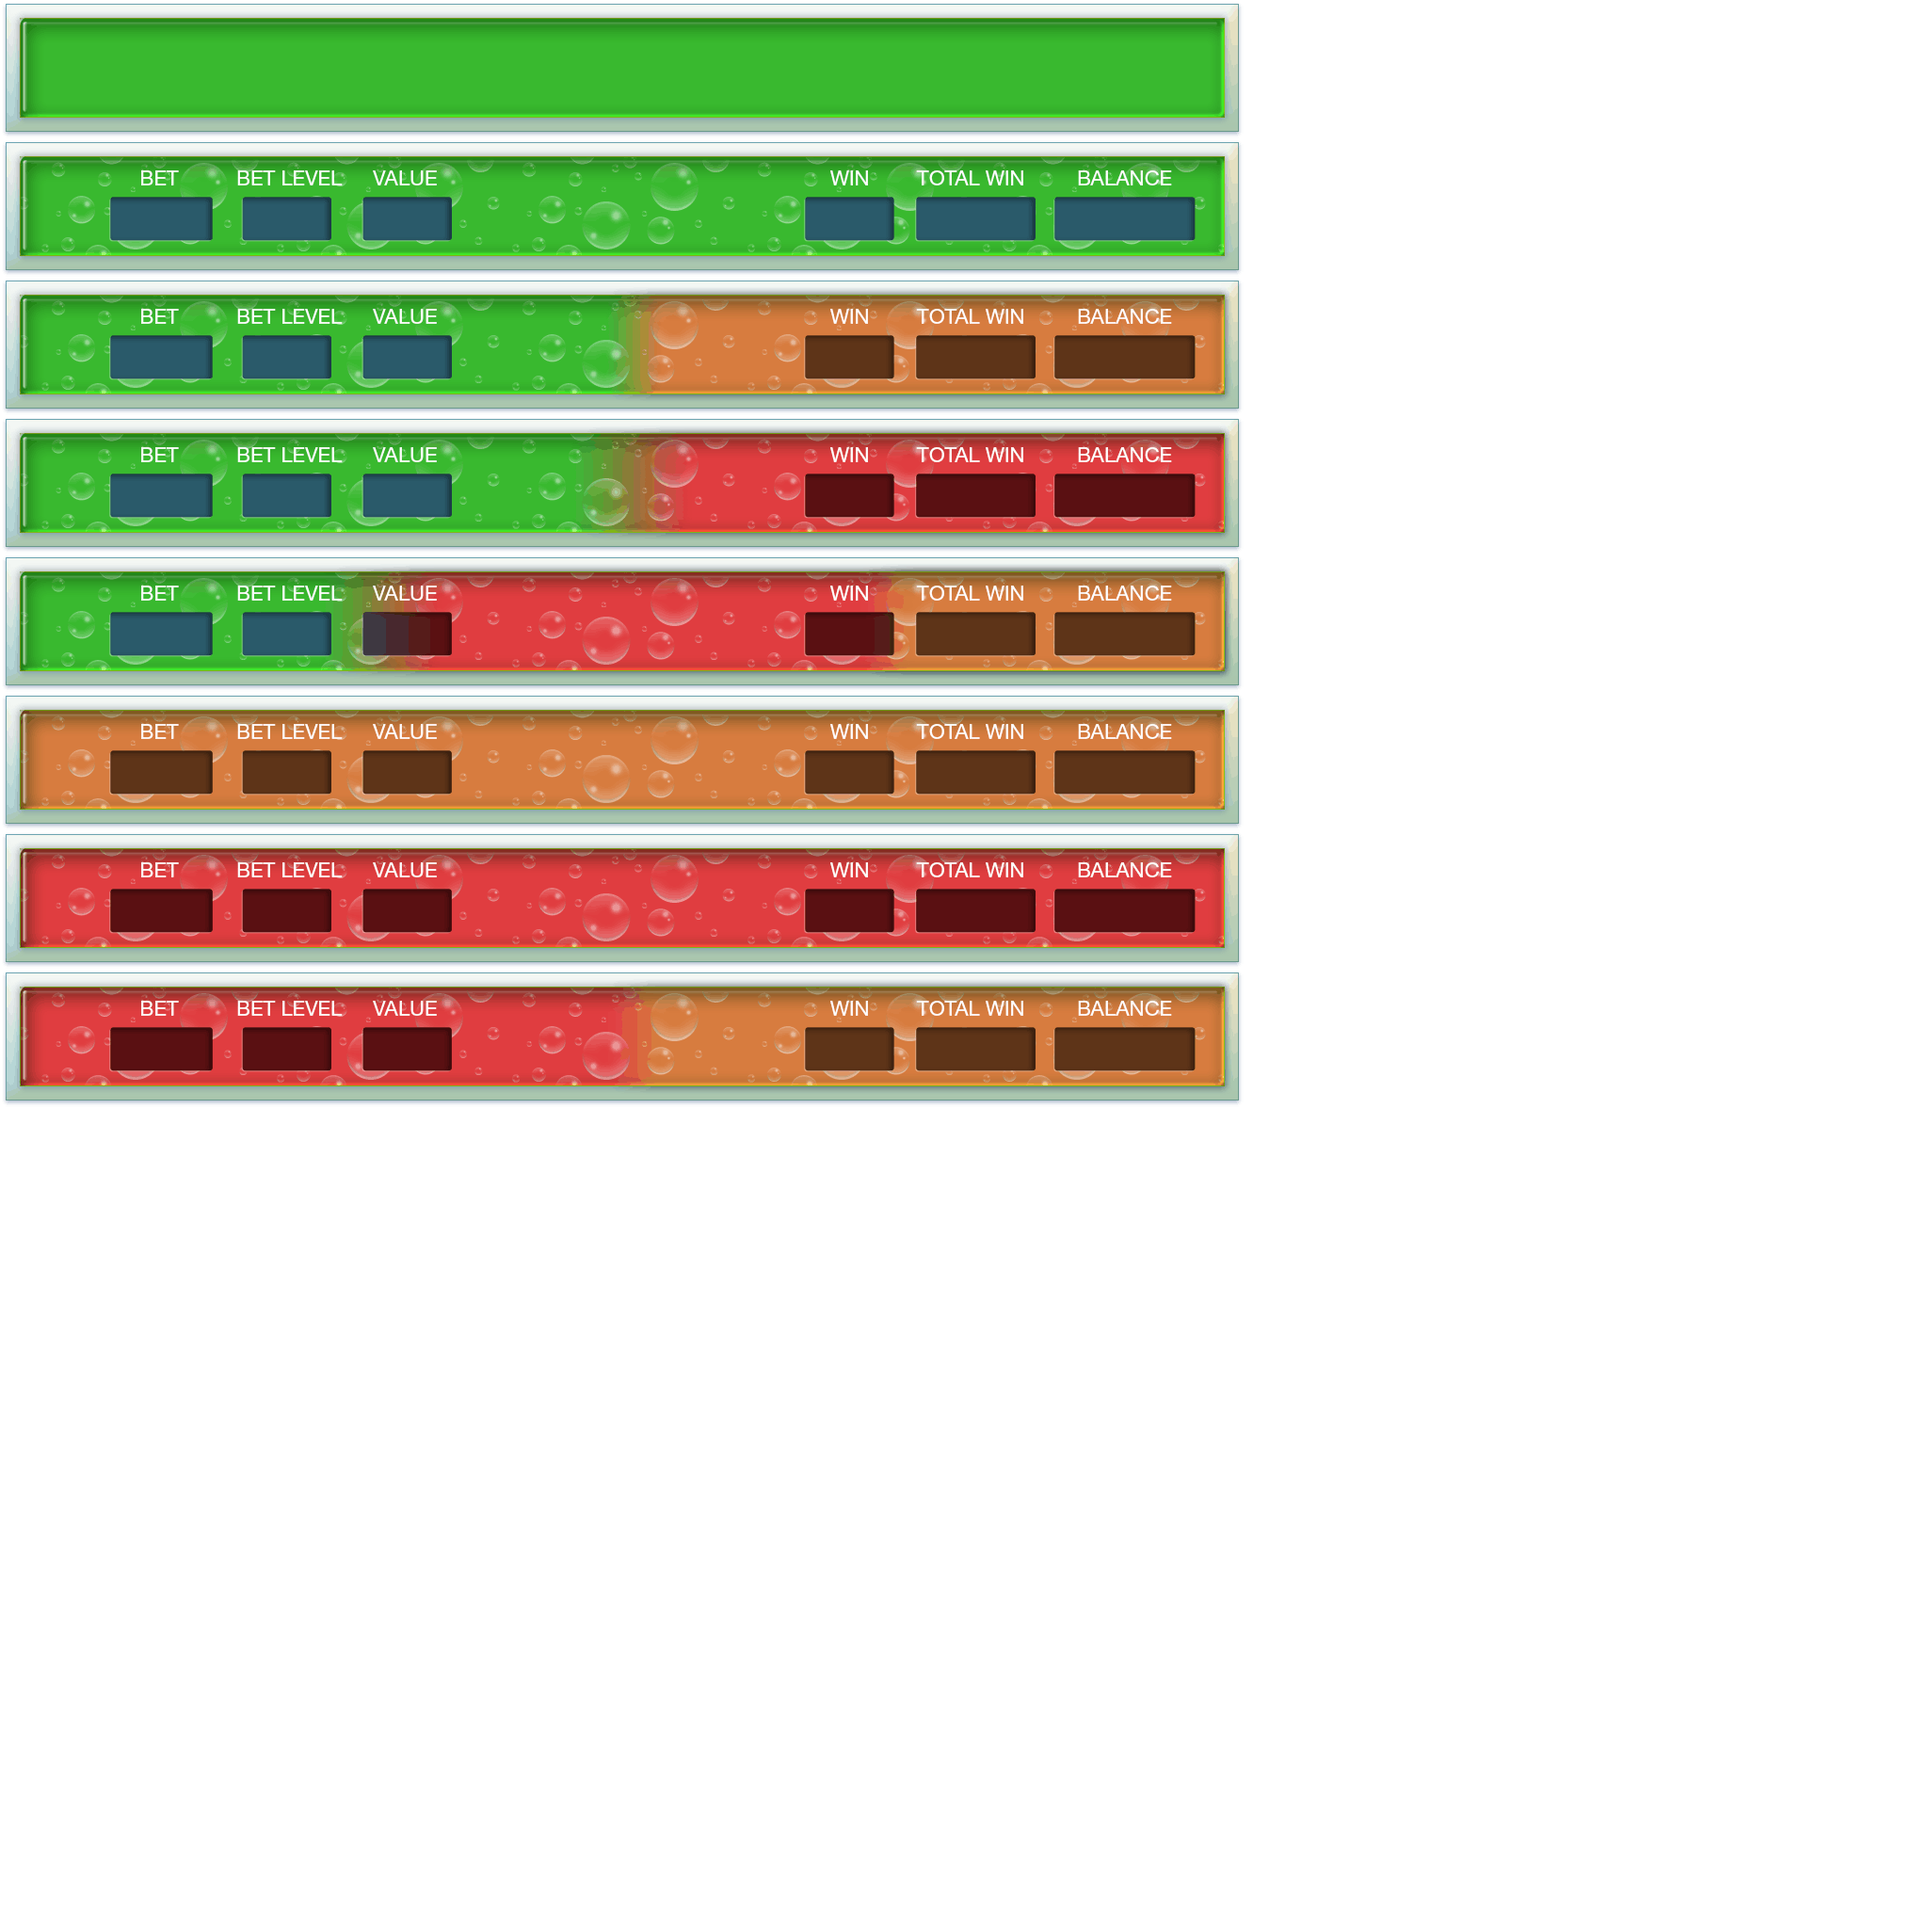
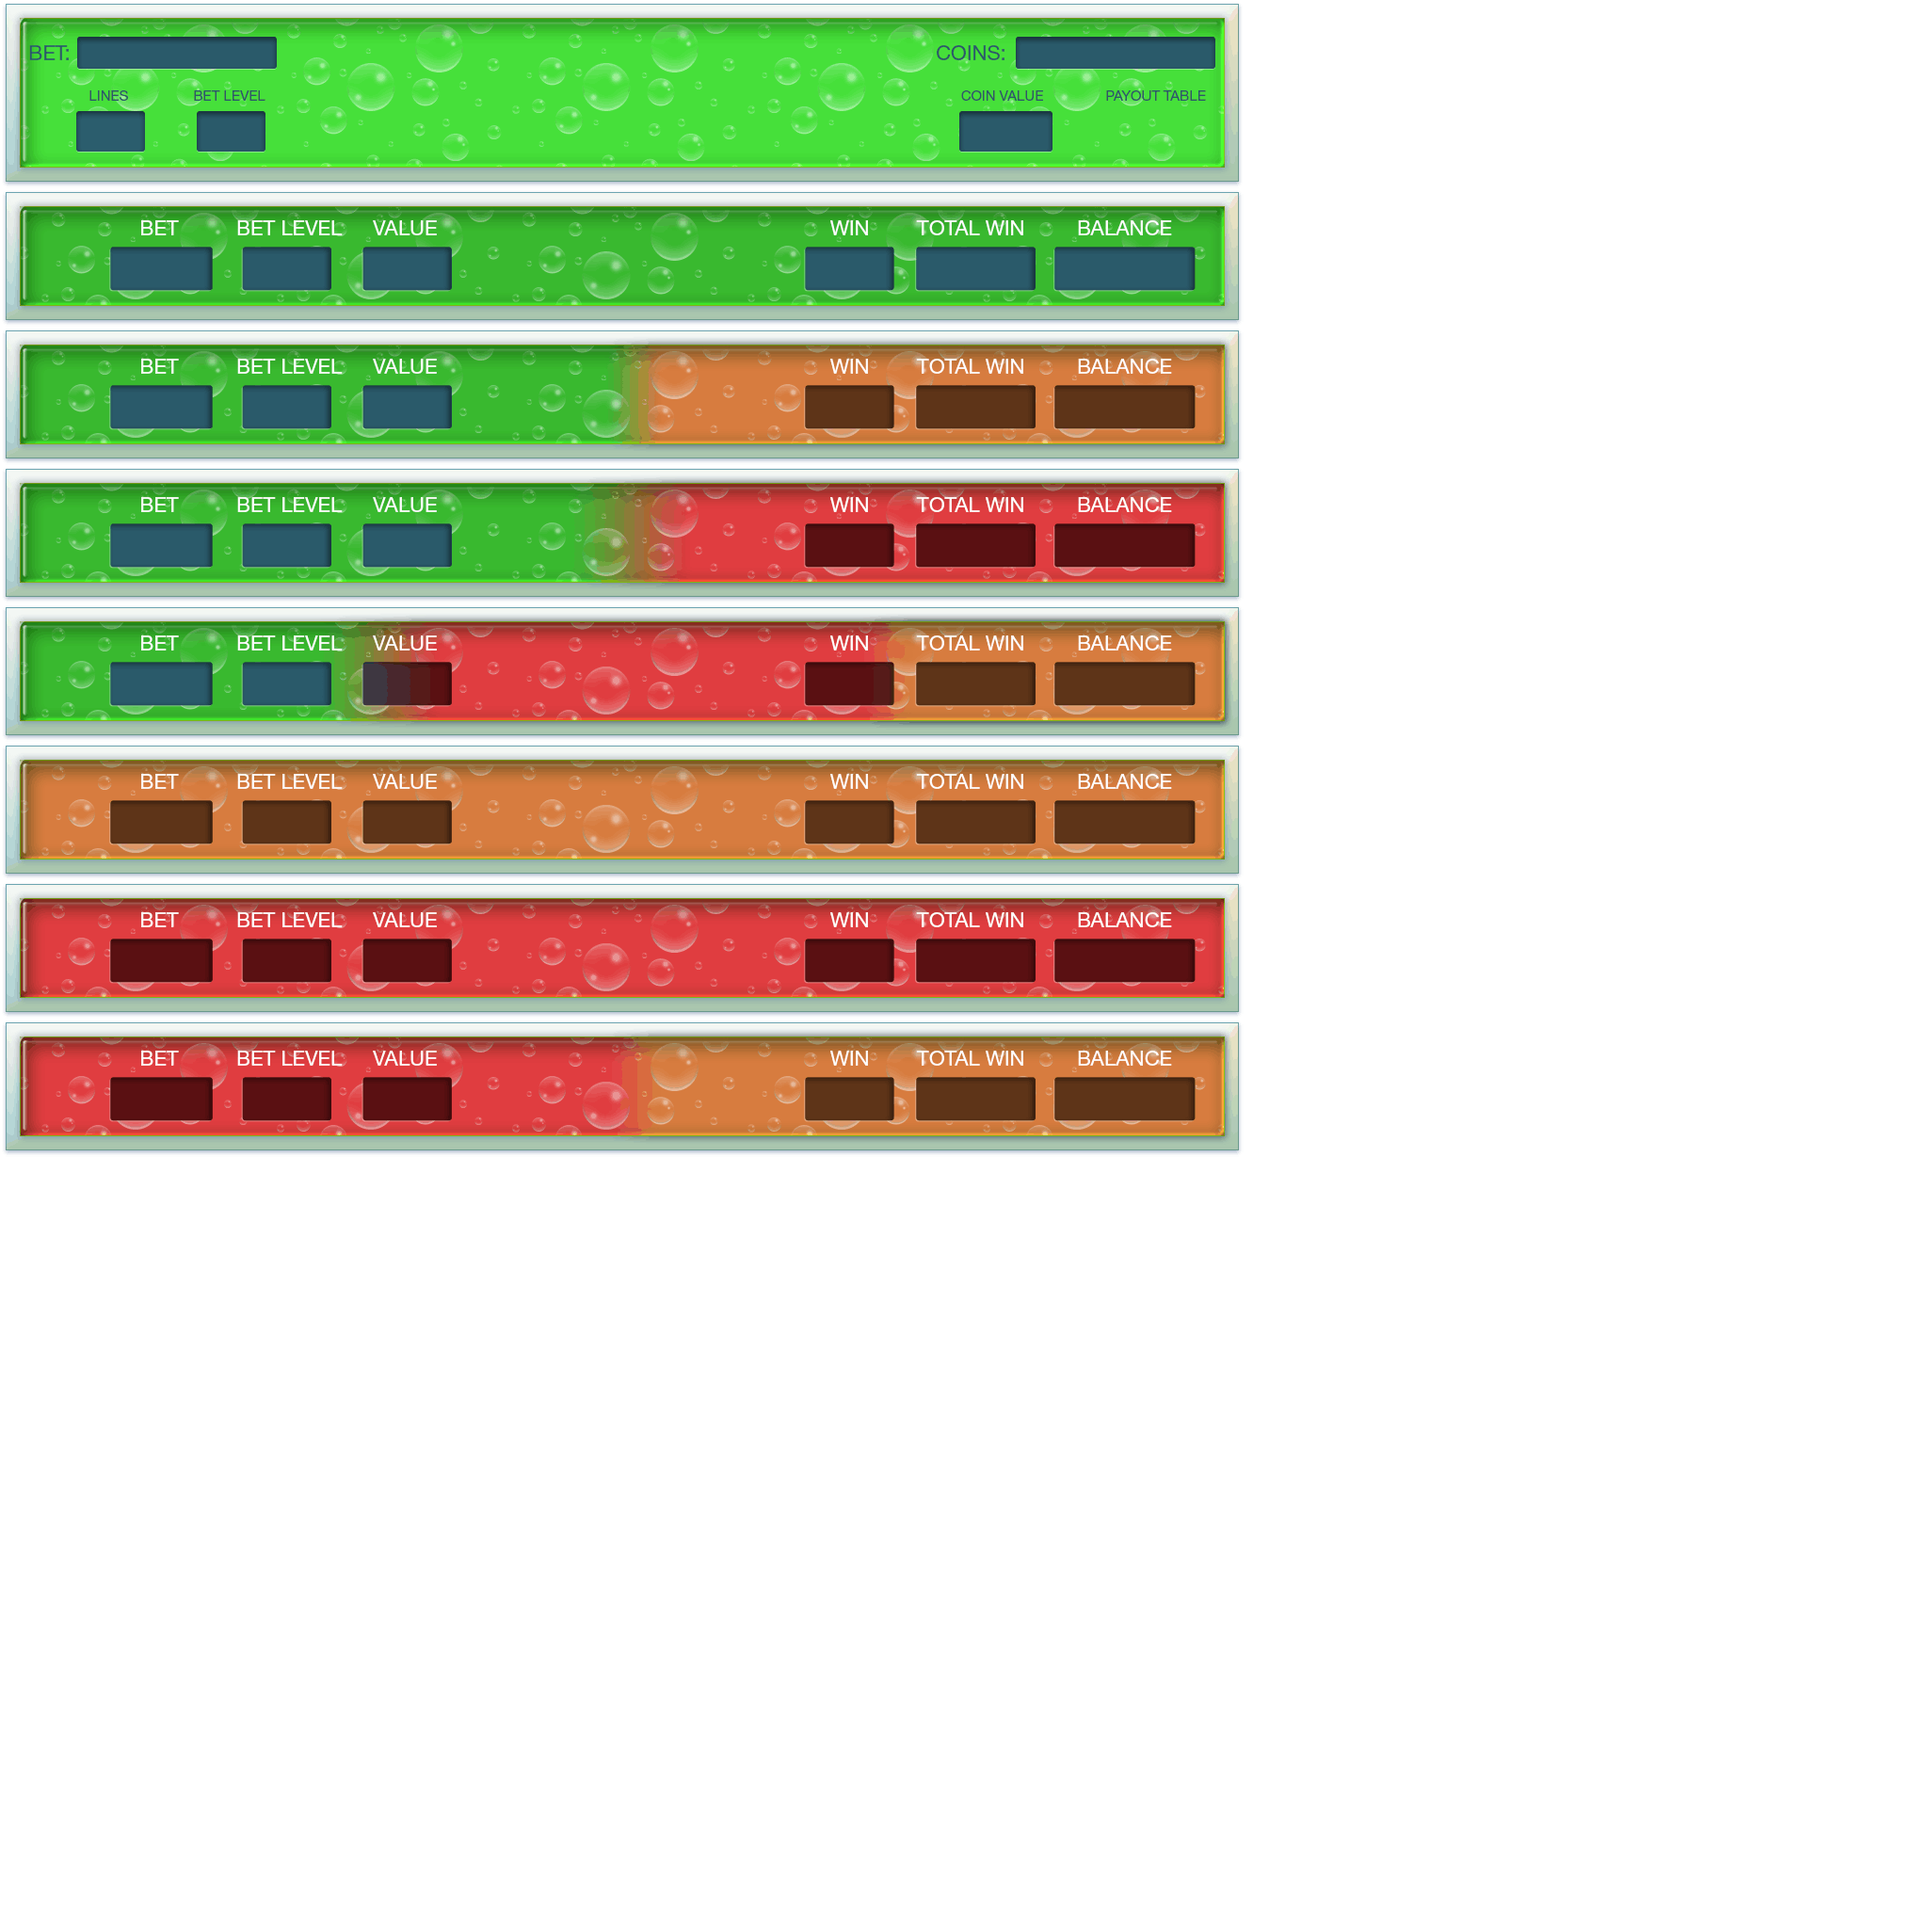
Panel fix to old version

diff --git a/markup/modules/Panel/PanelView.js b/markup/modules/Panel/PanelView.js
@@ -20,19 +20,24 @@ export let view = (() => {
             container.top = y;
             let panelBG = game.add.sprite(1, deltaY, 'panelBG', framePanelBG, container);
 
-            if (!model.state('fs')) {
-                let panel = game.add.sprite(deltaX, deltaY, frameName, null, container);
-                let convert = game.add.sprite(80, 150, 'switcher', 'switch1.png', container);
-                convert.anchor.set(0.5);
-                convert.inputEnabled = true;
-                convert.events.onInputDown.add(() => {
-                    balanceController.changeCoinsToCash();
-                });
+            // if (!model.state('fs')) {
+            //     let panel = game.add.sprite(deltaX, deltaY, frameName, null, container);
+            //     let convert = game.add.sprite(80, 150, 'switcher', 'switch1.png', container);
+            //     convert.anchor.set(0.5);
+            //     convert.inputEnabled = true;
+            //     convert.events.onInputDown.add(() => {
+            //         balanceController.changeCoinsToCash();
+            //     });
+            //
+            //     model.el('convertSign', convert);
+            // } else {
+            //     container.alpha = 0;
+            //     container.y = -500;
+            // }
 
-                model.el('convertSign', convert);
-            } else {
+            if (model.state('fs')) {
                 container.alpha = 0;
-                container.y = -500;
+                 container.y = -500;
             }
 
             container.pivot.set(panelBG.width / 2, 0);
@@ -95,8 +100,8 @@ export let view = (() => {
 
         AutoContainer: function({
             game = model.el('game'),
-            x = model.group('panel').width / 2 - 20,
-            y = 143
+            x = model.group('panel').width / 2,
+            y = 168
         }) {
             let autoDesktopContainer = game.add.group();
             autoDesktopContainer.x = x;
@@ -110,8 +115,8 @@ export let view = (() => {
 
         AnimatedSpinButton: function({
             game = model.el('game'),
-            x = model.group('panel').width / 2 - 20,
-            y = 143,
+            x = model.group('panel').width / 2,
+            y = 168,
             container = model.group('panel')
         }) {
             let animatedSpinButton = game.add.sprite(x, y, 'deskButtonsAnim', null, container);
@@ -126,8 +131,8 @@ export let view = (() => {
 
         SpinButton: function({
             game = model.el('game'),
-            x = model.group('panel').width / 2 - 20,
-            y = 143,
+            x = model.group('panel').width / 2,
+            y = 168,
             container = model.group('panel')
         }) {
             let spinButtonDesk = game.add.button(x, y, 'deskButtons', null, null, 'spinOn.png', 'spin.png', 'spinOn.png', null, container);
@@ -140,8 +145,8 @@ export let view = (() => {
         AutoButton: function({
             game = model.el('game'),
             container = model.group('panel'),
-            x = model.el('spinButtonDesk').x + 120,
-            y = 141
+            x = model.el('spinButtonDesk').x - 136,
+            y = 168
         }) {
             let autoButtonDesk = game.add.button(x, y, 'deskButtons', null, null, 'autoOn.png', 'auto.png', 'autoOn.png', null, container);
             autoButtonDesk.anchor.set(0.5);
@@ -152,8 +157,8 @@ export let view = (() => {
         MaxBetButton: function({
             game = model.el('game'),
             container = model.group('panel'),
-            x = model.el('spinButtonDesk').x - 120,
-            y = 141
+            x = model.el('spinButtonDesk').x + 136,
+            y = 168
         }) {
             let maxBetButtonDesk = game.add.button(x, y, 'deskButtons', null, null, 'maxBetOn.png', 'maxBet.png', 'maxBetOn.png', null, container);
             maxBetButtonDesk.anchor.set(0.5);
@@ -163,8 +168,8 @@ export let view = (() => {
 
         StopButton: function({
             game = model.el('game'),
-            x = model.group('panel').width / 2 - 20,
-            y = 143,
+            x = model.group('panel').width / 2,
+            y = 168,
             container = model.group('panel')
         }) {
             let stopButtonDesk = game.add.button(x, y, 'deskButtons', null, null, 'stopOn.png', 'stop.png', 'stopOn.png', null, container);
@@ -174,11 +179,23 @@ export let view = (() => {
             return stopButtonDesk;
         },
 
+        LinesNumber: function({
+            game = model.el('game'),
+            container = model.group('panel'),
+            style = {font: 'normal 27px Helvetica, Arial', align: 'center', fill: '#ffffff'},
+            x = 103,
+            y = 195,
+        }) {
+            let linesNumber = game.add.text(x, y, '10', style, container);
+            model.el('linesNumber', linesNumber);
+            return linesNumber;
+        },
+
         PlusButton: function({
             game = model.el('game'),
             container = model.group('panel'),
-            x = 423,
-            y = 126,
+            x = 277,
+            y = 183,
         }) {
             let plusButtonDesk = game.add.button(x, y, 'deskButtons', null, null, 'plusOn.png', 'plus.png', 'plusOn.png', null, container);
             return plusButtonDesk;
@@ -187,8 +204,8 @@ export let view = (() => {
         MinusButton: function({
             game = model.el('game'),
             container = model.group('panel'),
-            x = 300,
-            y = 126
+            x = 173,
+            y = 183
         }) {
             let minusButtonDesk = game.add.button(x, y, 'deskButtons', null, null, 'minusOn.png', 'minus.png', 'minusOn.png', null, container);
             return minusButtonDesk;

diff --git a/markup/modules/Panel/PanelController.js b/markup/modules/Panel/PanelController.js
@@ -14,17 +14,18 @@ export let controller = (() => {
         let game = model.el('game');
         view.draw.PanelBG({});
         view.draw.AnimatedSpinButton({});
-            view.draw.AutoContainer({});
-            view.draw.AutoPanel({}).forEach((panelButton) => {
-                panelButton.inputEnabled = true;
-                panelButton.events.onInputUp.add(handle.panelButton, panelButton);
-                panelButton.events.onInputOver.add(()=>{
-                    panelButton.events.onInputUp.active = true;
-                }, panelButton);
-                panelButton.events.onInputOut.add(()=>{
-                    panelButton.events.onInputUp.active = false;
-                }, panelButton);
-            });
+        view.draw.LinesNumber({});
+        view.draw.AutoContainer({});
+        view.draw.AutoPanel({}).forEach((panelButton) => {
+            panelButton.inputEnabled = true;
+            panelButton.events.onInputUp.add(handle.panelButton, panelButton);
+            panelButton.events.onInputOver.add(()=>{
+                panelButton.events.onInputUp.active = true;
+            }, panelButton);
+            panelButton.events.onInputOut.add(()=>{
+                panelButton.events.onInputUp.active = false;
+            }, panelButton);
+        });
 
         let spinButtonDesk = view.draw.SpinButton({});
         spinButtonDesk.events.onInputUp.add(handle.spin);
@@ -52,11 +53,11 @@ export let controller = (() => {
             betLevelMinus.onInputDown.add(handle.betMinus);
             model.el('betLevelMinus', betLevelMinus);
 
-        let coinsLevelPlus = view.draw.PlusButton({x: 984});
+        let coinsLevelPlus = view.draw.PlusButton({x: 1112});
             coinsLevelPlus.onInputDown.add(handle.coinsPlus);
             model.el('coinsLevelPlus', coinsLevelPlus);
 
-        let coinsLevelMinus = view.draw.MinusButton({x: 864});
+        let coinsLevelMinus = view.draw.MinusButton({x: 984});
             coinsLevelMinus.onInputDown.add(handle.coinsMinus);
             model.el('coinsLevelMinus', coinsLevelMinus);
 

diff --git a/markup/modules/Balance/BalanceView.js b/markup/modules/Balance/BalanceView.js
@@ -159,19 +159,19 @@ export let view = (() => {
             betValueAmount = model.balance('betValue'),
             sumStyle = {font: '27px Helvetica, Arial', fill: '#ffffff', align: 'center'},
             valueStyle = {font: '27px Helvetica, Arial', fill: '#ffffff', align: 'center'},
-            y = 155,
-            x = [190, 380, 947, 1160]
+            y = [130, 212],
+            x = [180, 245, 1070, 1185]
         }) {
 
-            let coinSum = game.add.text(x[3], y, `${coinSumValue.toFixed(0)}`, sumStyle, container);
-            let betSum = game.add.text(x[0], y, `${betSumValue.toFixed(0)}`, sumStyle, container);
+            let coinSum = game.add.text(x[3], y[0], `${coinSumValue.toFixed(0)}`, sumStyle, container);
+            let betSum = game.add.text(x[0], y[0], `${betSumValue.toFixed(0)}`, sumStyle, container);
 
             if (model.state('balance') == 'cash') {
                 coinSum.visible = betSum.visible = false;
             }
 
-            let coinValue = game.add.text(x[2], y, `${coinValueAmount}`, valueStyle, container);
-            let betValue = game.add.text(x[1], y, `${betValueAmount}`, valueStyle, container);
+            let coinValue = game.add.text(x[2], y[1], `${coinValueAmount}`, valueStyle, container);
+            let betValue = game.add.text(x[1], y[1], `${betValueAmount}`, valueStyle, container);
 
             model.el('coinSum', coinSum);
             model.el('betSum', betSum);

diff --git a/markup/modules/Win/WinView.js b/markup/modules/Win/WinView.js
@@ -72,12 +72,12 @@ export let view = (() => {
 
             // small table
             if (!model.state('fs') && model.desktop) {
-                let winTotalSmall = game.add.sprite(model.group('panel').width / 2 - 20, 150, 'deskButtons', 'win.png');
+                let winTotalSmall = game.add.sprite(model.group('panel').width / 2, 150, 'deskButtons', 'win.png');
                 winTotalSmall.anchor.set(0.5);
                 winTotalSmall.alpha = 0;
                 model.group('panel').addAt(winTotalSmall, 5);
 
-                let winTotalTextSmall = game.add.text(model.group('panel').width / 2 - 20, 170, winTotalData, style2);
+                let winTotalTextSmall = game.add.text(model.group('panel').width / 2, 170, winTotalData, style2);
                 winTotalTextSmall.anchor.set(0.5);
                 winTotalTextSmall.alpha = 0;
                 model.group('panel').addAt(winTotalTextSmall, 6);
